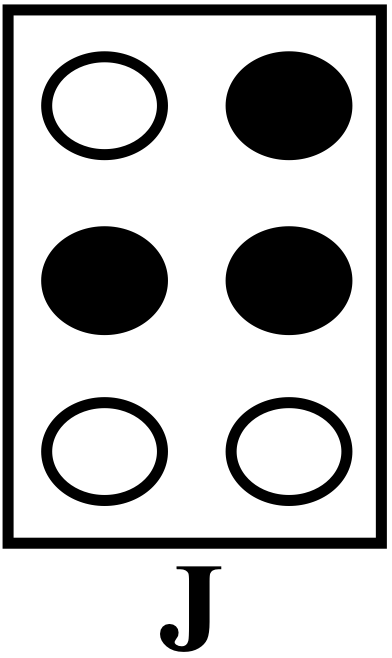
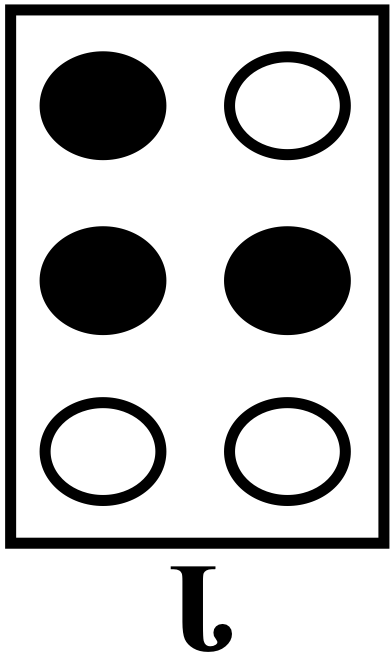
Mirror translation, add README; LICENSE

diff --git a/src/Translation.js b/src/Translation.js
@@ -5,11 +5,14 @@ import Character from "./characters";
 export default function Translation({ text }) {
   return (
     <Grid container spacing={2} style={{ marginTop: "5%" }}>
-      {text.split("").map((c, i) => (
-        <Grid item key={i}>
-          <Character char={c} />
-        </Grid>
-      ))}
+      {text
+        .split("")
+        .reverse()
+        .map((c, i) => (
+          <Grid item key={i}>
+            <Character char={c} />
+          </Grid>
+        ))}
     </Grid>
   );
 }

diff --git a/README.md b/README.md
@@ -1,0 +1,3 @@
+# Braille Translator
+
+Traductor a Braille para imprimir. El braille se da "espejeado" para que al ser perforado, se pueda leer correctamente del otro lado de la hoja.
